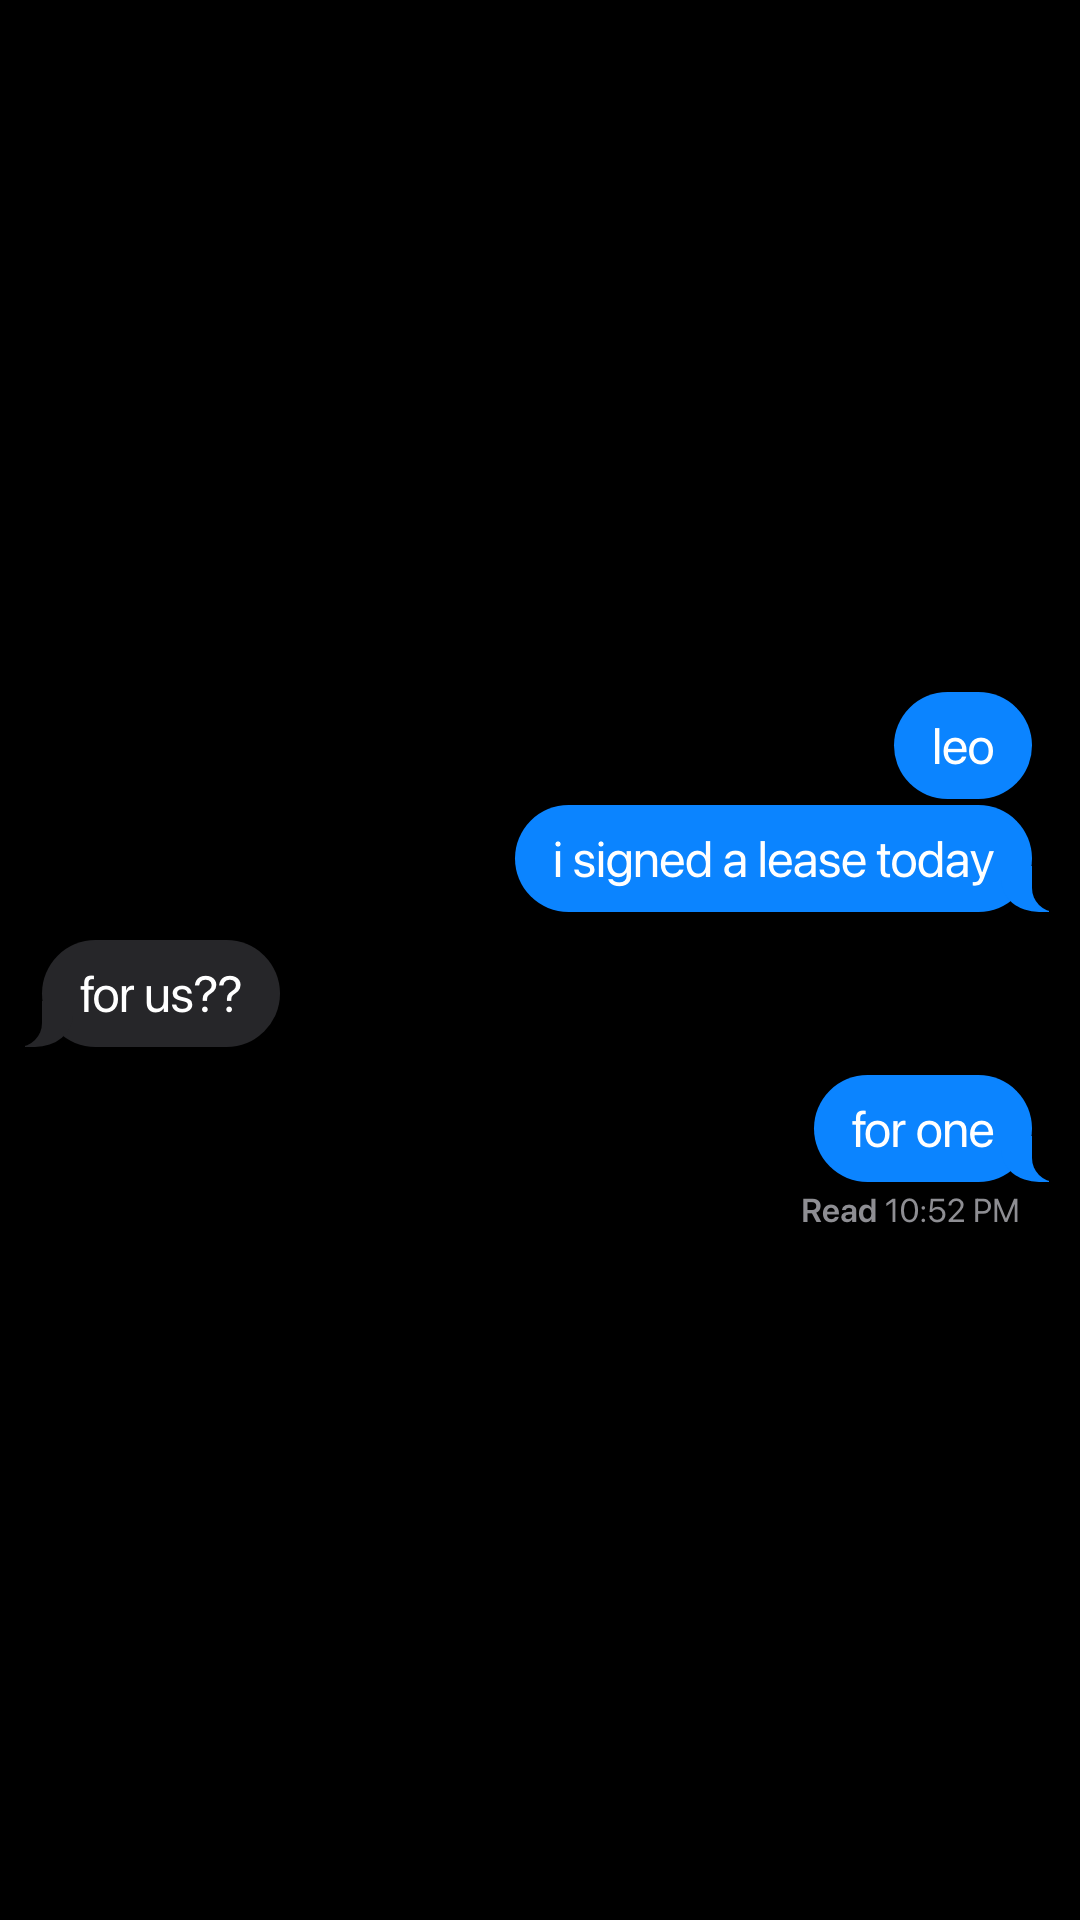
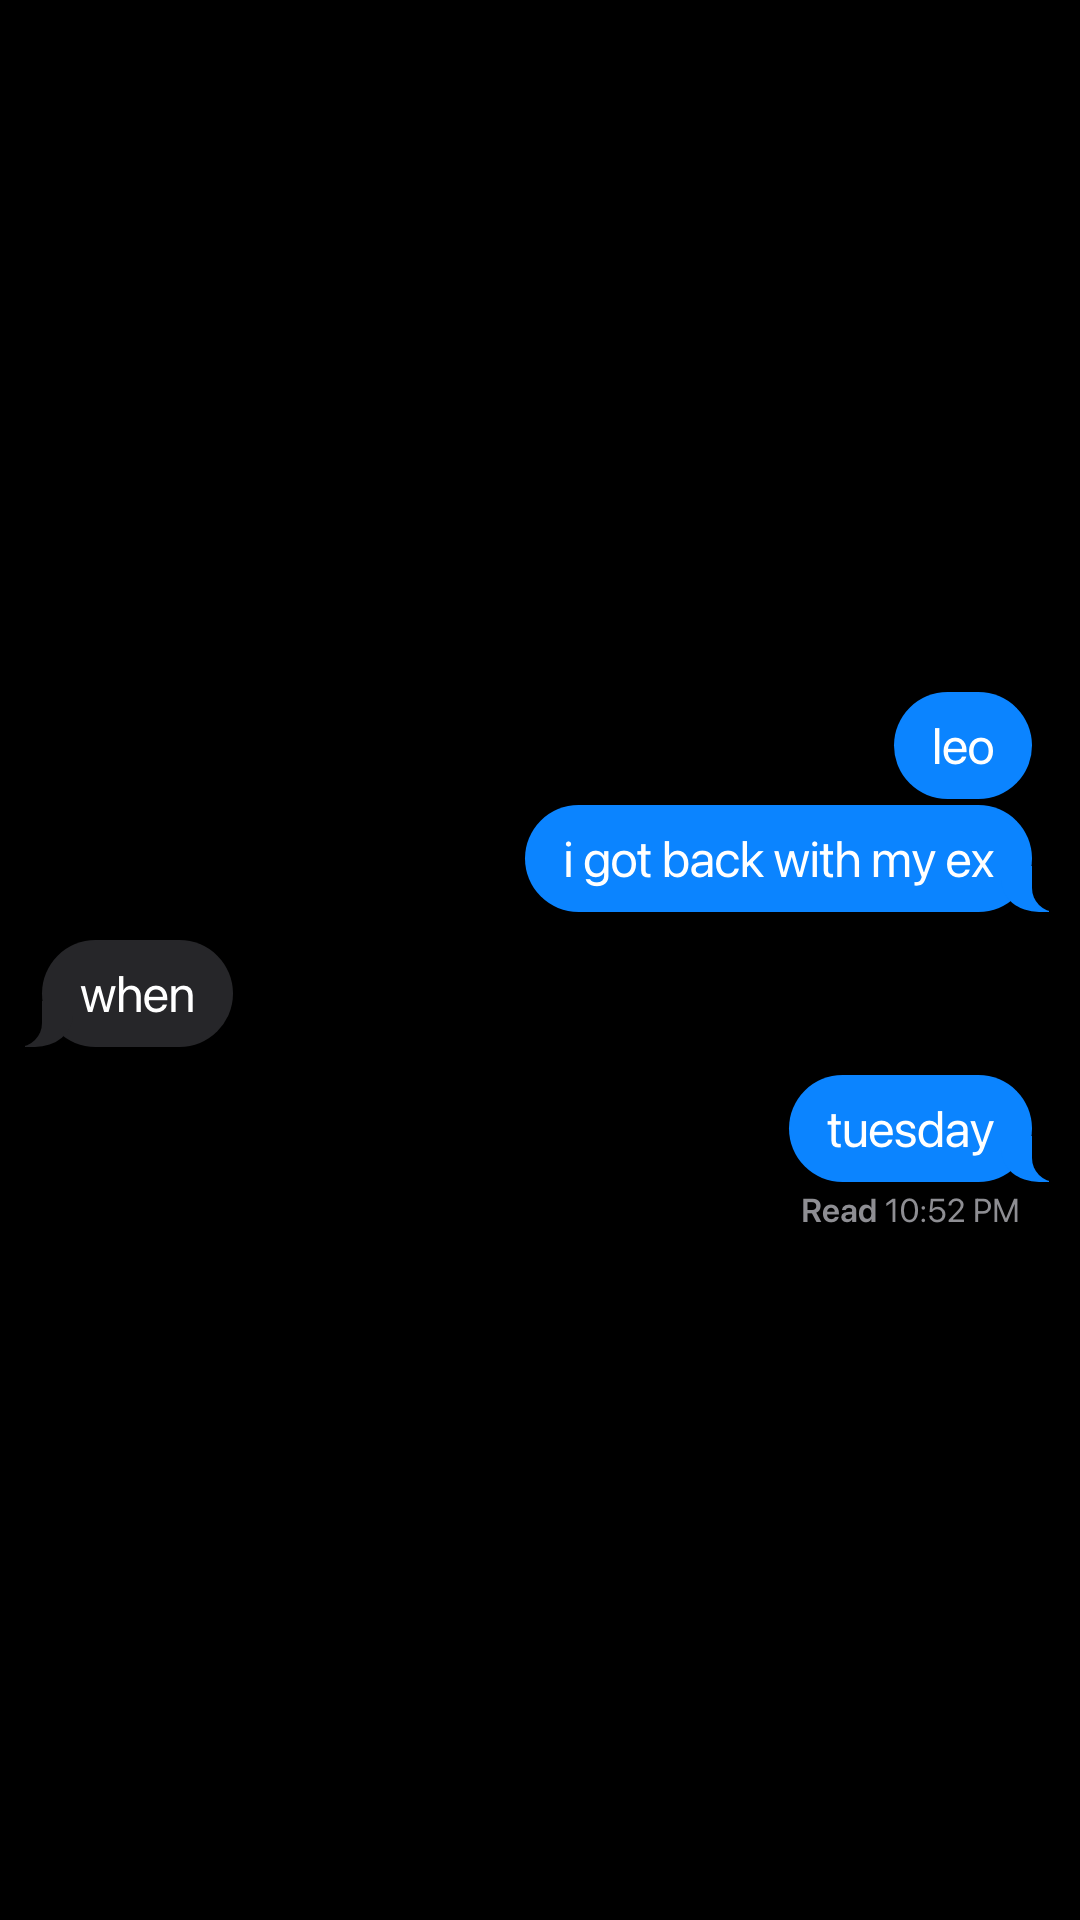
Carousel 633 · tuesday: an ending that fits a 19–20 couple

Changed region(s): [[0.4583, 0.4062, 0.9167, 0.4688], [0.0611, 0.4688, 0.275, 0.5625], [0.7333, 0.5625, 0.9167, 0.625]]

diff --git a/docs/marketing/tiktok-633/SCRIPT.md b/docs/marketing/tiktok-633/SCRIPT.md
@@ -1,4 +1,4 @@
-# 633 · for one
+# 633 · tuesday
 
 **For:** rosie first (it suits any account). **Engine:** the cold-reply opener of 192 and 208 ("u said k", "u said u too"), drawn as a 👍 Tapback on "i love u", and a gut-punch ending.
 **Format:** rosie's own: 3 iMessage slides (1080×1920, dark iMessage, no crop, no look), the look of rosie's hits. Post it as a photo carousel: slides 1 and 2, then your gift screenshots, then slide 3, with a trending sound. Maya and Leo, nobody else named. The pink card.
@@ -8,13 +8,13 @@
 
 1. 10:26 PM. He: "i love u", with her 👍 Tapback on it. He: "a thumbs up" / "really". She: "what do u want me to say" (Read 10:27 PM)
 2. He: "nothing" / "i finished this today", then the link "for maya 🤍"
-3. She: "leo" / "i signed a lease today". He: "for us??". She: "for one" (Read 10:52 PM, and he never replies)
+3. She: "leo" / "i got back with my ex". He: "when". She: "tuesday" (Read 10:52 PM, and he never replies)
 
 **Real:** the chat never says what's inside the gift.
 
 ## Why it should go
 
-A 👍 on "i love u" is the coldest reply in iMessage, and everyone gets it at thumbnail size. "for us??" then "for one" is the line people quote, and the Read with no reply is the detail they call out. Two camps: she's allowed to leave, and she let him finish the gift.
+A 👍 on "i love u" is the coldest reply in iMessage, and everyone gets it at thumbnail size. "when" / "tuesday" is the line people quote: she'd been back with her ex for days while he finished the gift. The Read with no reply is the detail they call out.
 
 ## Caption (written as a search)
 

diff --git a/docs/marketing/VIRAL-FORMULA.md b/docs/marketing/VIRAL-FORMULA.md
@@ -2952,8 +2952,10 @@ So 631 to 635 go back to the engines that made the hits, written as new stories:
 |---|---|---|---|
 | 631 | 208, Maya the villain | "its 6pm maya" / "and??" | "its my birthday" / "just wanted u to have something today too" |
 | 632 | 149, what she shouldn't say | "busy doing what leo" | "i told my mom we broke up" / "she took it really well" / "like suspiciously well" |
-| 633 | cold reply, gut punch | her 👍 on "i love u" | "i signed a lease today" / "for us??" / "for one" |
+| 633 | cold reply, gut punch | her 👍 on "i love u" | "i got back with my ex" / "when" / "tuesday" |
 | 634 | 192, he's the villain | "why does gym bro call u baby" | "send it to gym bro" |
 | 635 | 102, friends to lovers | "he broke up with me" / "over text" | "a year" / "i was waiting for him to mess up" |
 
 **Post order:** 631, 633, 634, 632, 635, one a day. Pin 208, 149 and 30 to the profile.
+
+**Maya and Leo are 19–20.** The owner sent back 633's first ending ("i signed a lease today" / "for one"): "they are like 19 20 years old no leases no nothing like that". So their world is classes, dorms or their parents' place, part-time jobs, parties, exes, mums and friends. Never leases, moving in, mortgages, weddings, babies or careers.
